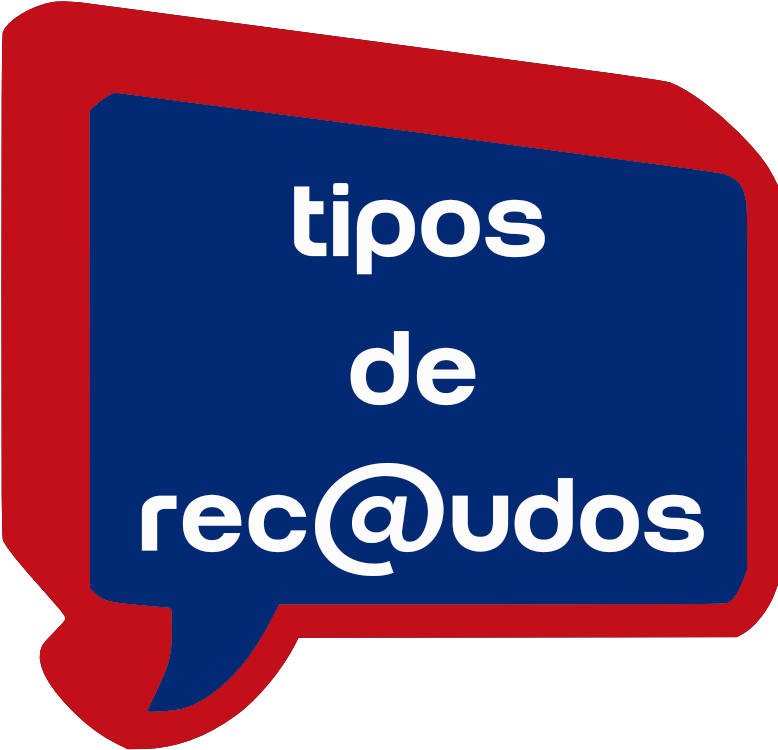
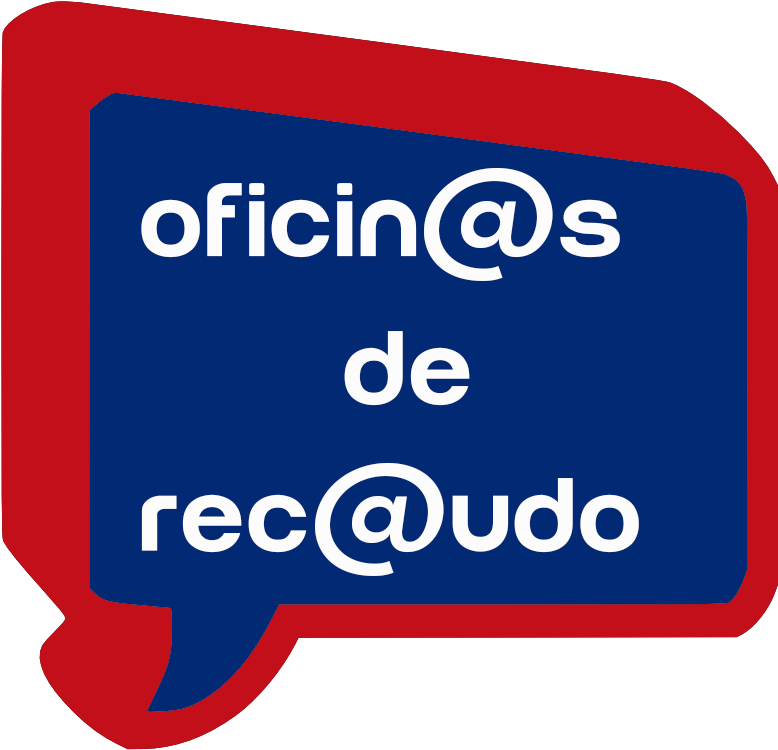
Actualizacion
Actualizacion

Changed region(s): [[0.1851, 0.2147, 0.8021, 0.3987], [0.4319, 0.4293, 0.617, 0.552], [0.8329, 0.644, 0.9254, 0.736]]

diff --git a/Enlaces/PuntosdePago.html b/Enlaces/PuntosdePago.html
@@ -117,8 +117,12 @@
 
 						<div id="modal1" class="modal">
 							<div class="modal-content">
-								<h4>Modal Header</h4>
-								<p>Abouch of text</p>
+								<h4>Tipos de Recaudo</h4>
+								<p><b>MASTV</b> pone a disposición diferentes medios para hacer sus pagos 
+								los cuales son</p>
+								<br>
+								<h5 class="center">Atravez de Oficinas</h5>
+								<center><b><i><p class="center wave-effect waves-light btn">Conoce las Ubicaciones aquí</i></b></p></center>
 							</div>
 							<div class="modal-footer">
 								<a href="#!" class="modal-close btn-flat">Cerrar</a>
